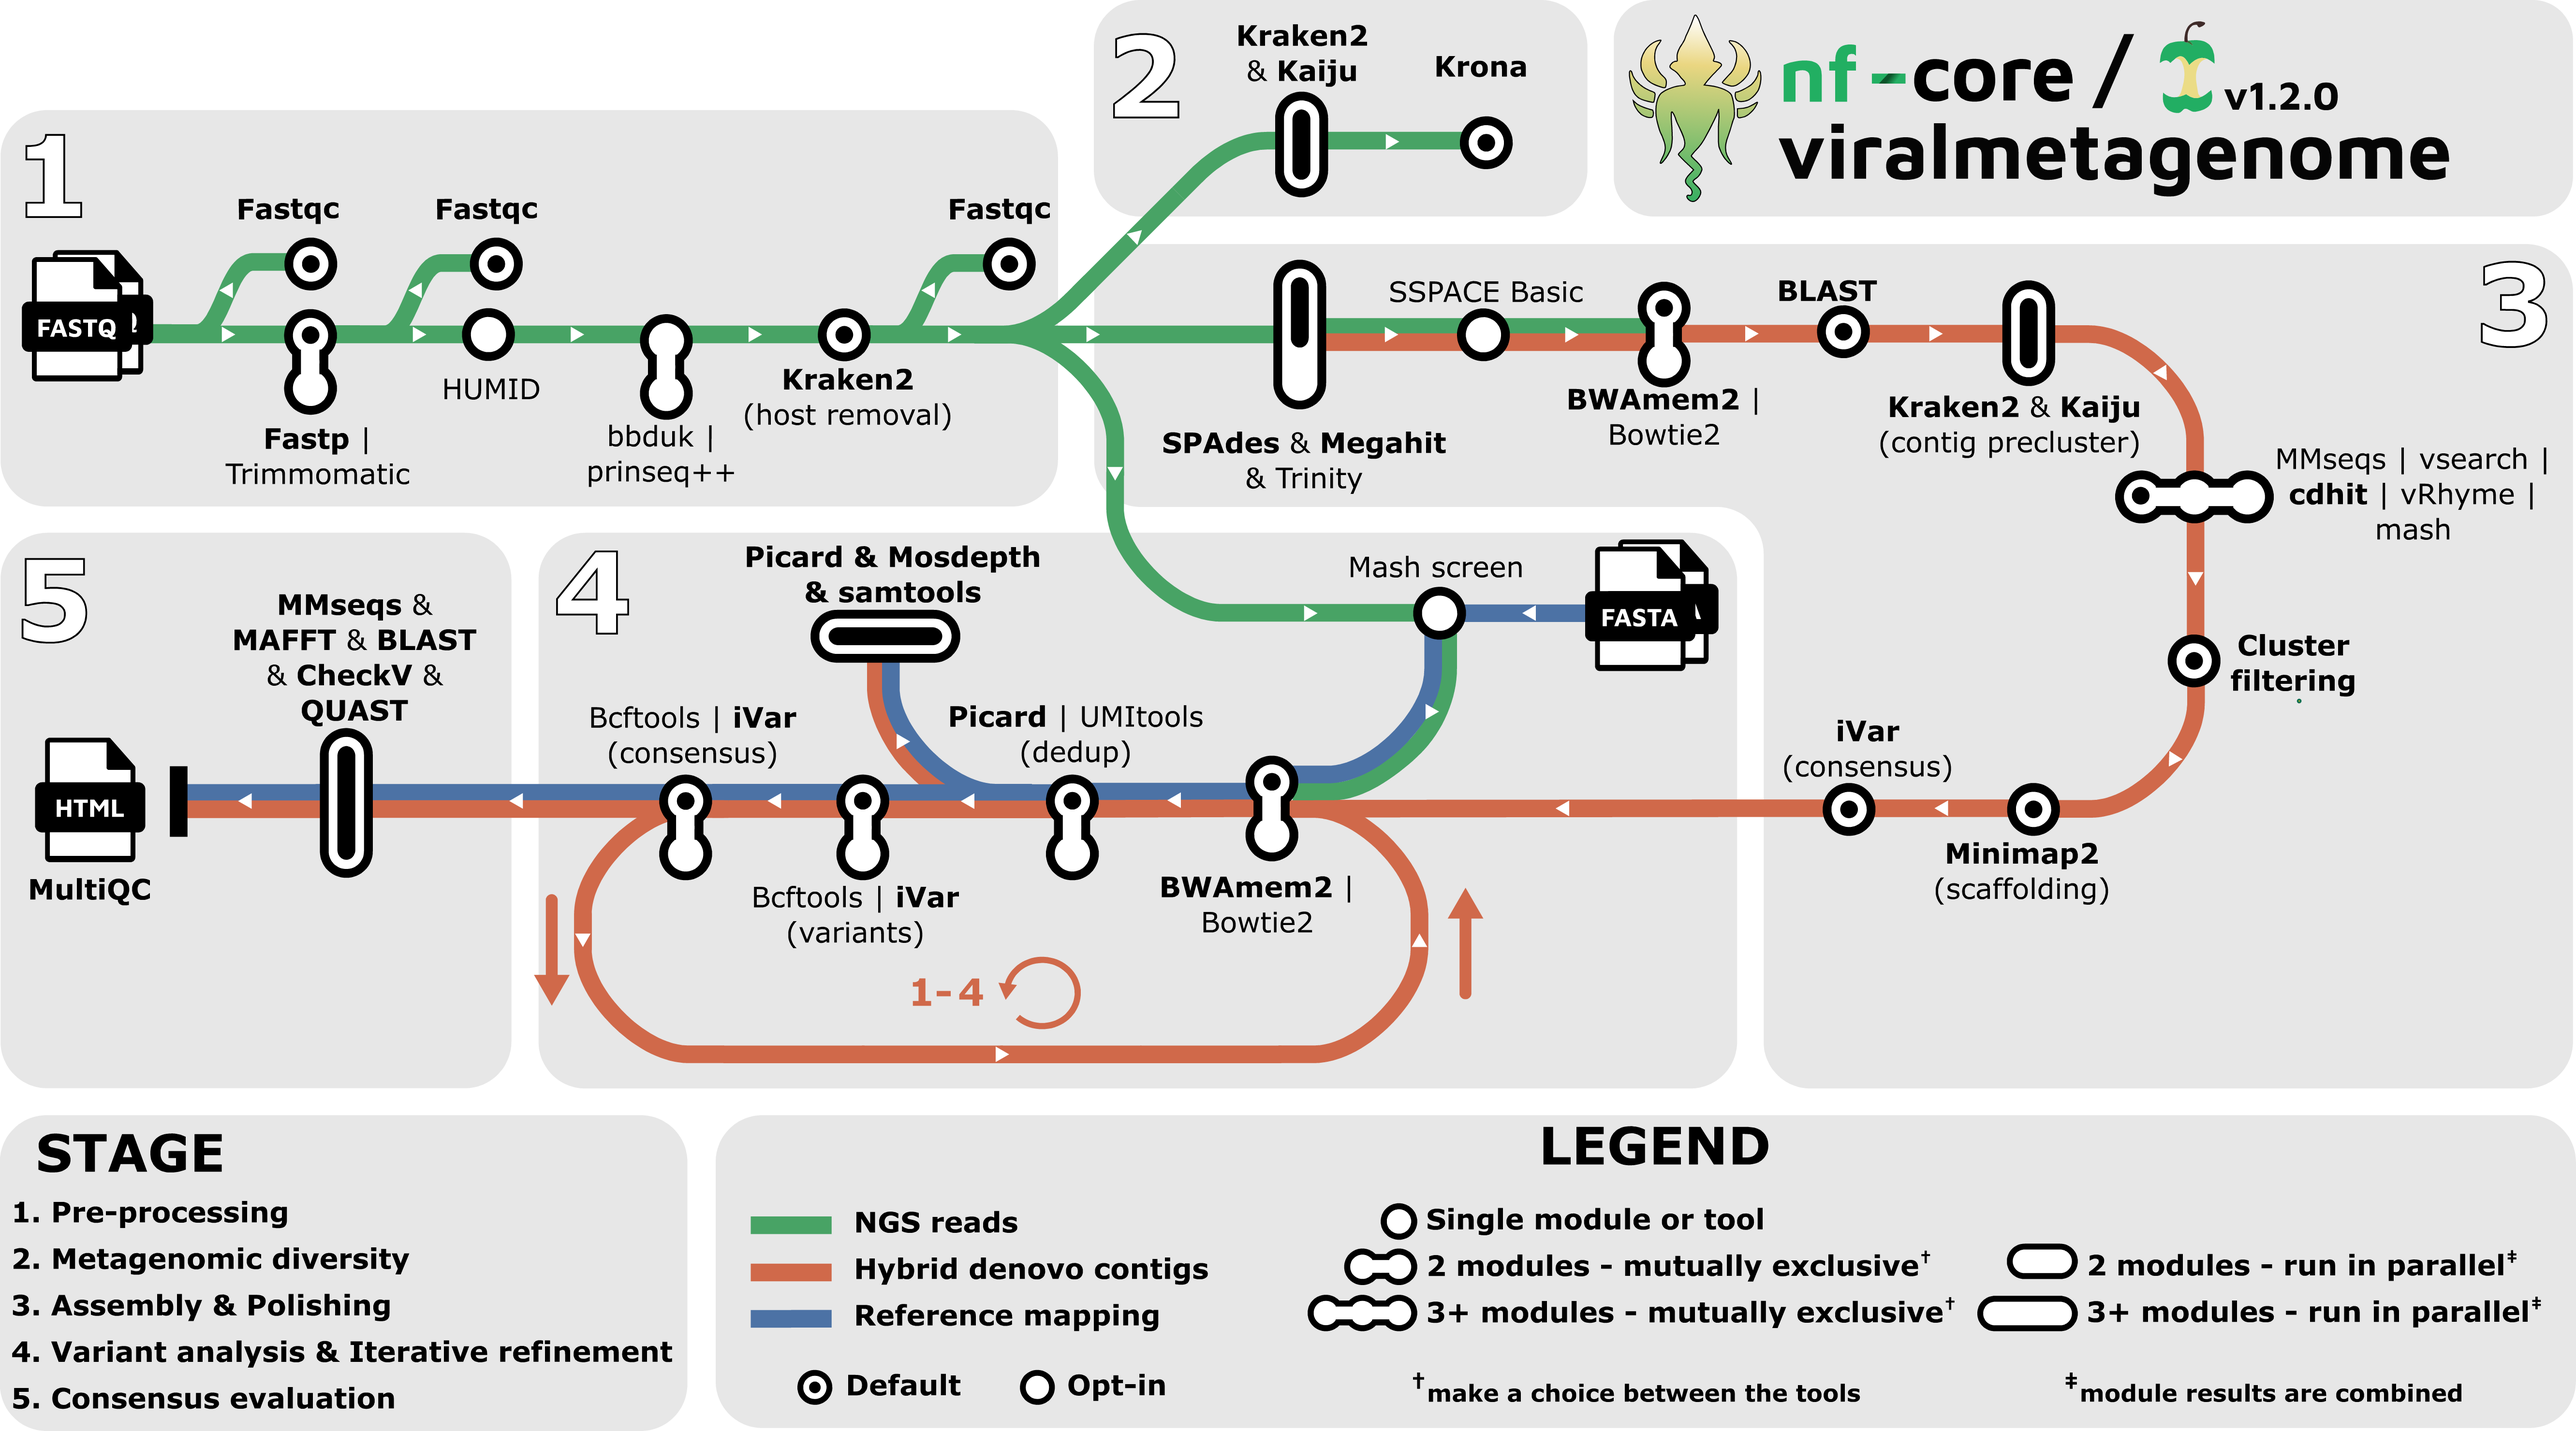
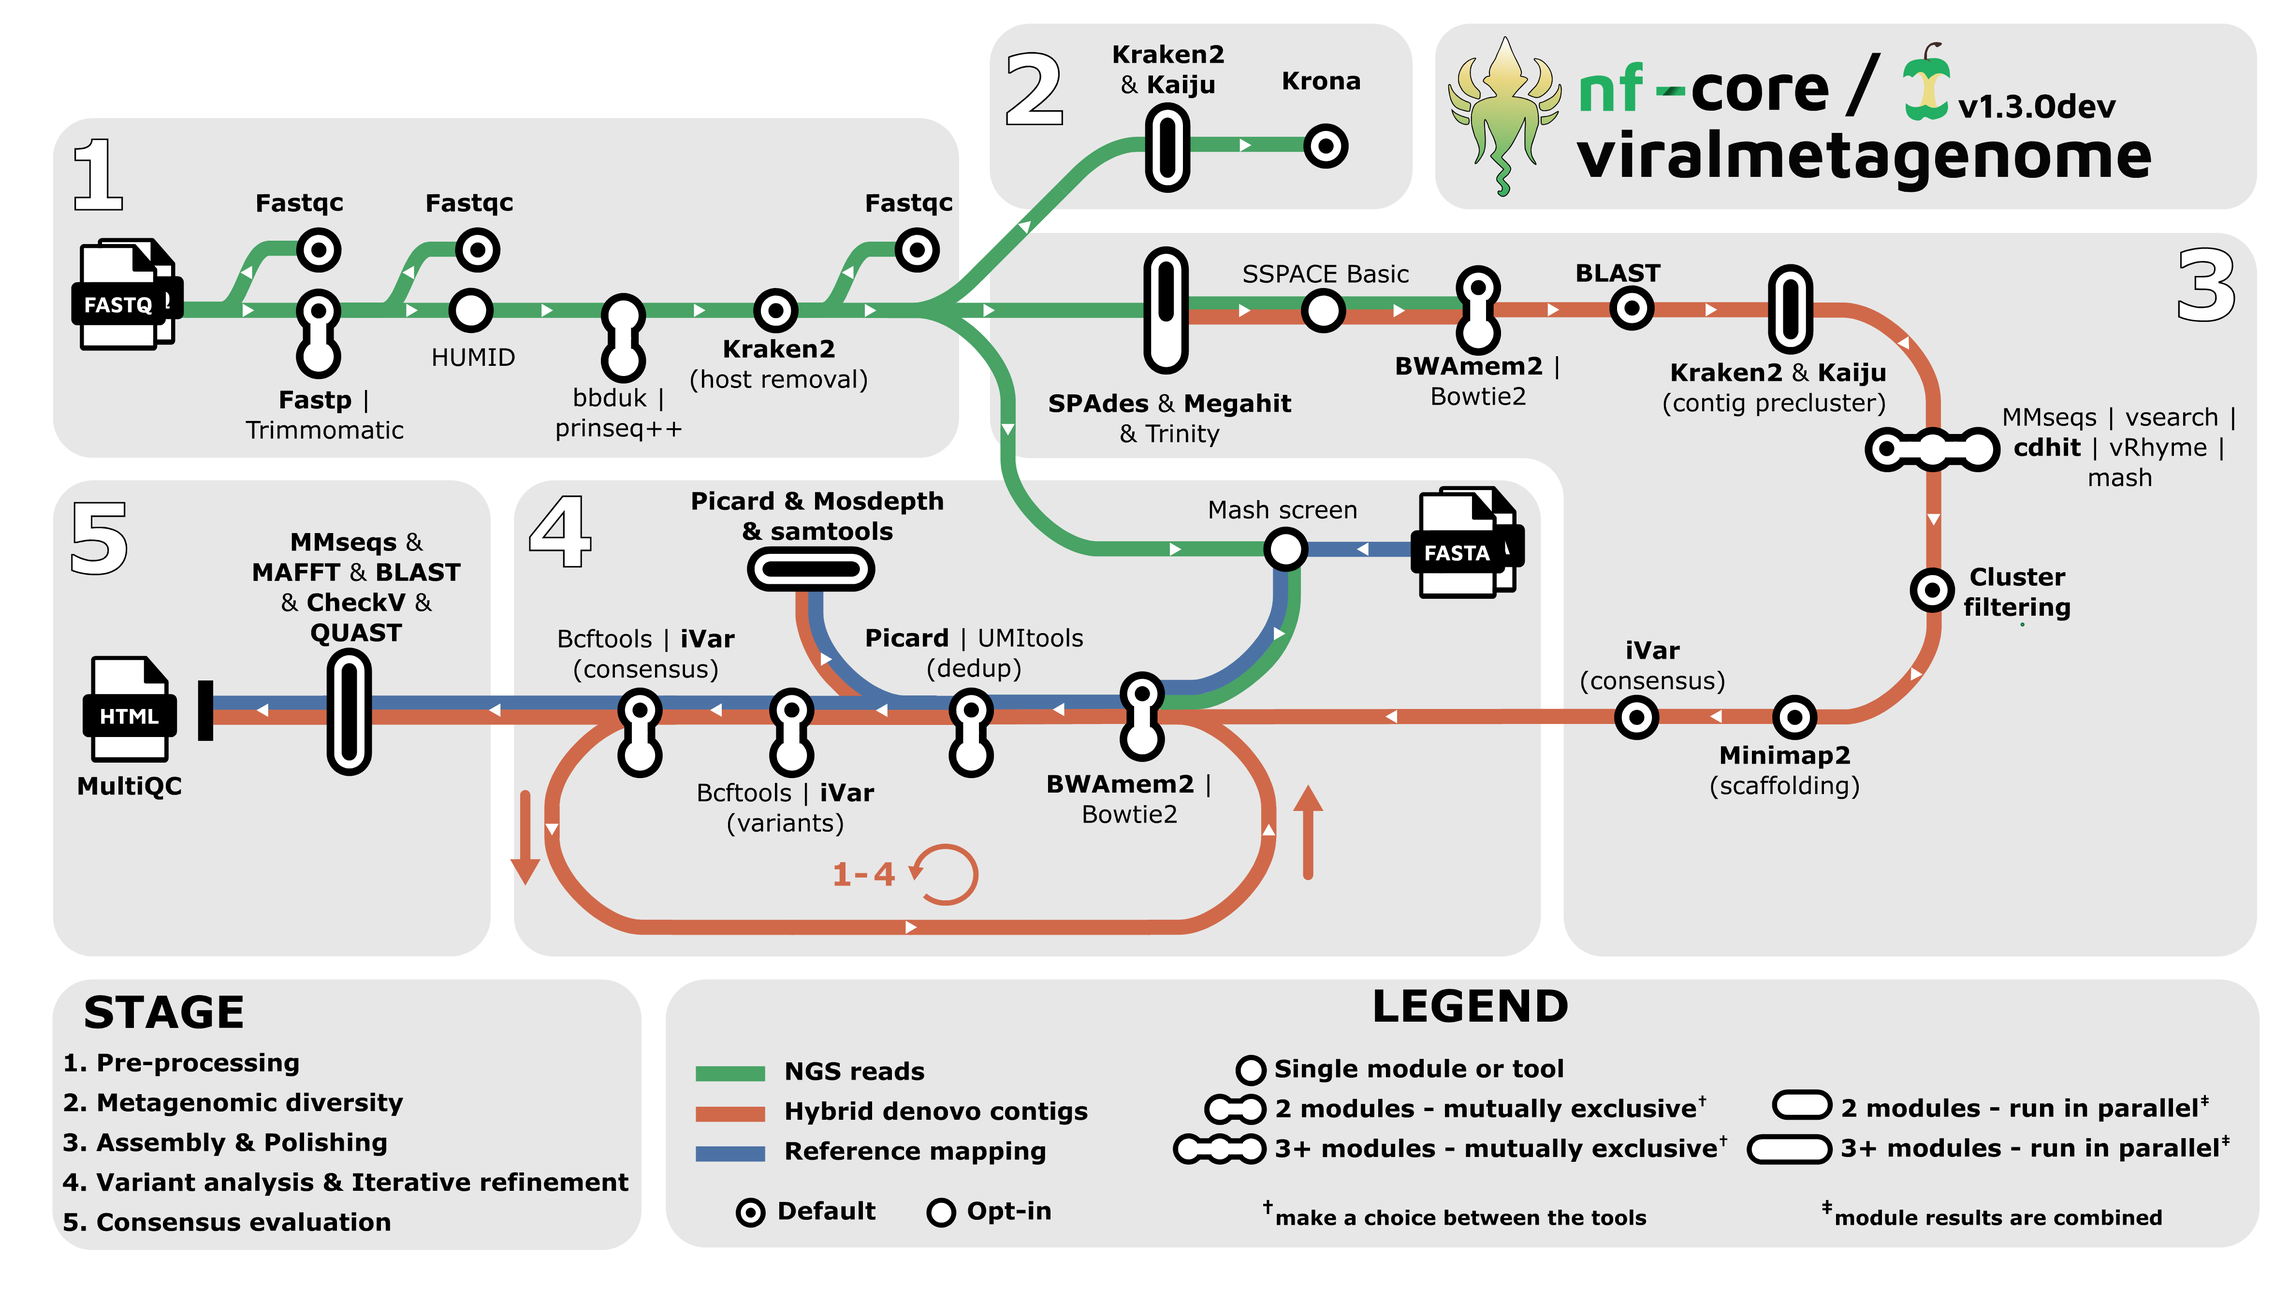
bump version

diff --git a/CHANGELOG.md b/CHANGELOG.md
@@ -3,6 +3,21 @@
 The format is based on [Keep a Changelog](https://keepachangelog.com/en/1.0.0/)
 and this project adheres to [Semantic Versioning](https://semver.org/spec/v2.0.0.html).
 
+## v1.3.0dev - YYYY-MM-DD
+
+### `Added`
+
+### `Fixed`
+
+- ([#334](https://github.com/nf-core/viralmetagenome/pull/334)) - Bump nf-core template to 4.2.1
+
+### `Dependencies`
+
+| Dependency | Old version | New version |
+| ---------- | ----------- | ----------- |
+| `template` | 4.2.0       | 4.2.1       |
+| `fastqc`   | 0.12.1      | 0.13.0      |
+
 ## v1.2.0 - 2026-09-16
 
 ### `Added`
